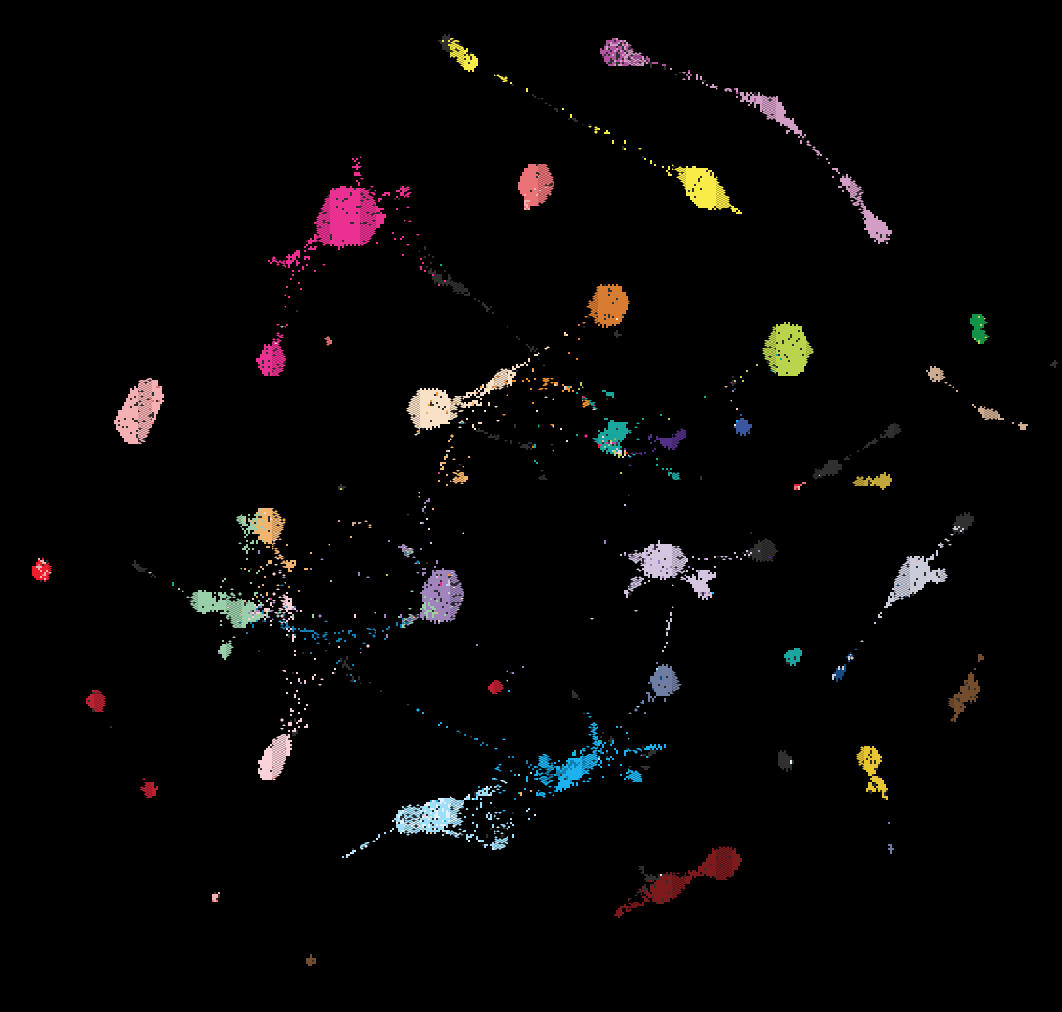
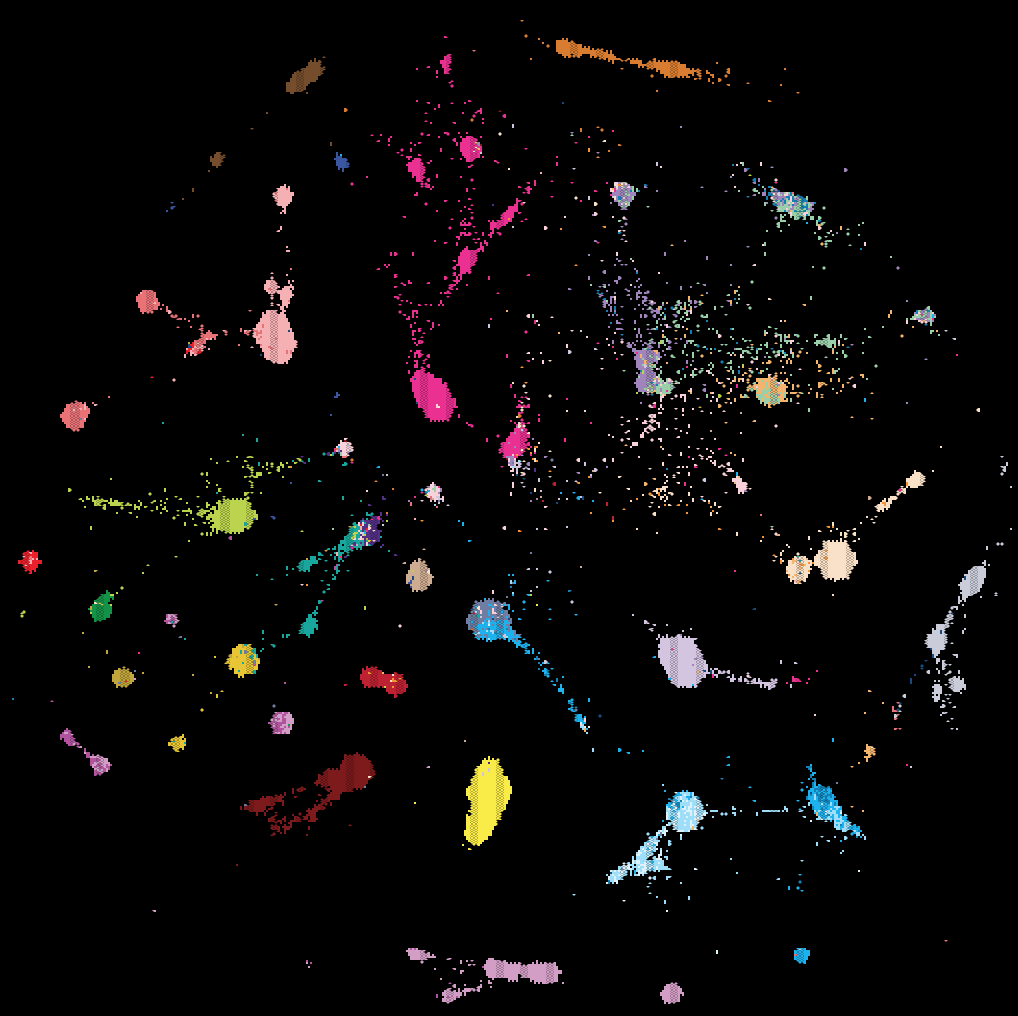
make thumbnail of pancanAtlas be euclidean icluster

diff --git a/www/imports/homePage/home.js b/www/imports/homePage/home.js
@@ -15,7 +15,8 @@ Template.homePage.onRendered(function () {
 Template.homePage.helpers({
     projects: function () {
         return [
-            { id: 'PancanAtlas/SampleMap', png: 'pancanAtlas.png' },
+            { id: 'PancanAtlas/SampleMap', png: 'pancanAtlas.png',
+                href: 'PancanAtlas/SampleMap&layout=Euclidean%20iCluster' },
             { id: 'Pancan12/SampleMap', png: 'pancan12.png' },
             { id: 'Pancan12/GeneMap', png: 'pancan12gene.png' },
             { id: 'Gliomas', png: 'gliomas-paper.png' },
@@ -29,6 +30,13 @@ Template.homePage.helpers({
     },
     id: function () {
         return this.id;
+    },
+    href: function () {
+        if (this.href) {
+            return this.href;
+        } else {
+            return this.id;
+        }
     },
     label: function () {
         if (this.label) {

diff --git a/www/imports/homePage/home.html b/www/imports/homePage/home.html
@@ -24,7 +24,7 @@
     {{ #each projects }}
         <div class='project'>
             <div class='thumbnail' data-project='{{ id }}'>
-                <a href='/?p={{id}}'>
+                <a href='/?p={{ href }}'>
                     <div style='padding-top:0.5em;'>{{ label }}</div>
                     <img src='{{ png }}' height='250px' style='padding-top:1em'>
                 </a>
